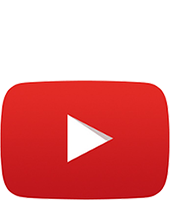
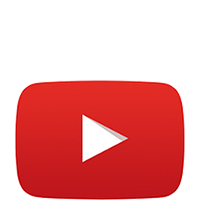
- Adjusted index display

diff --git a/src/scss/component/indexlink.scss b/src/scss/component/indexlink.scss
@@ -6,15 +6,14 @@
     padding: 5px;
     text-align: center;
     min-width: 100px;
-    height: 200px;
     margin-bottom: 2%;
     float: left;
     border: 1px solid $colorLink;
 
     &__img {
         display: block;
-        height: 100%;
         margin: 0 auto;
+        width: 100%;
     }
 
     &:hover {

diff --git a/src/scss/component/youtubelink.scss b/src/scss/component/youtubelink.scss
@@ -29,6 +29,7 @@
 
     &__img {
         display: block;
+        margin: 0 auto;
         width: 100%;
     }
 
